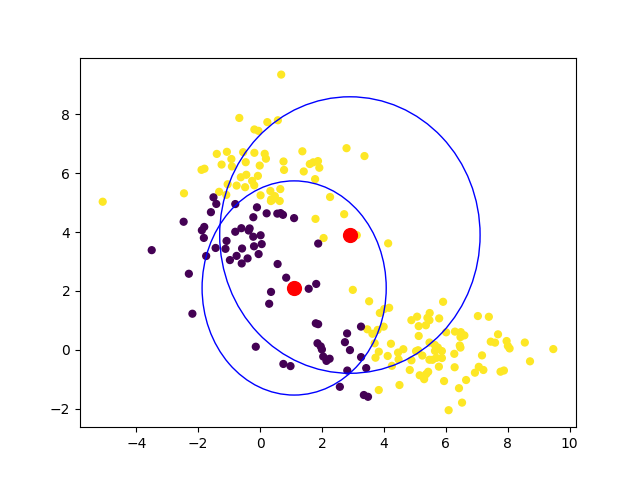
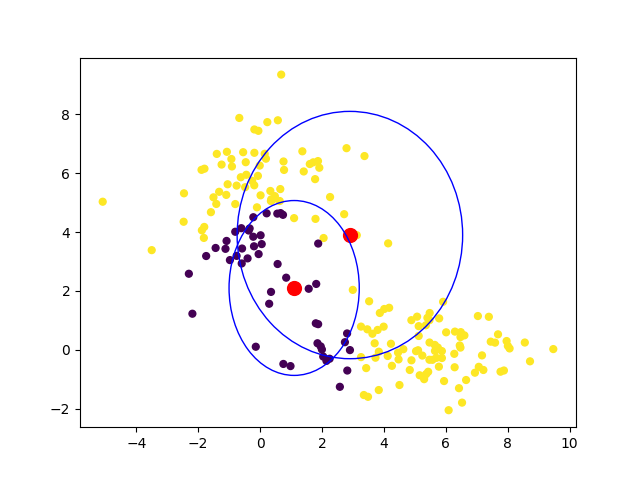
Improve handling of scales parameter

diff --git a/em-gaussian-pyro.py b/em-gaussian-pyro.py
@@ -18,16 +18,13 @@ from torch.distributions import constraints
 def model(data):
     # Global variables.
     weights = pyro.param('weights', torch.FloatTensor([0.5]), constraint=constraints.unit_interval)
-    scales = pyro.param('scales', torch.FloatTensor([2., 3., 4., 5.]), constraint=constraints.positive)
+    scales = pyro.param('scales', torch.tensor([[[1., 0.], [0., 2.]], [[3., 0.], [0., 4.]]]), constraint=constraints.positive)
     locs = pyro.param('locs', torch.tensor([[1., 2.], [3., 4.]]))
 
     with pyro.iarange('data', data.size(0)):
         # Local variables.
-        assignment = pyro.sample('assignment', dist.Bernoulli(torch.ones(len(data)) * weights))
-        assignment = assignment.to(torch.int64)
-        scales_assignment = scales[torch.stack((assignment*2, assignment*2 + 1))].transpose(1, 0)
-        scales_assignment = torch.stack([torch.diag(s) for s in scales_assignment])
-        pyro.sample('obs', dist.MultivariateNormal(locs[assignment], scales_assignment), obs=data)
+        assignment = pyro.sample('assignment', dist.Bernoulli(torch.ones(len(data)) * weights)).to(torch.int64)
+        pyro.sample('obs', dist.MultivariateNormal(locs[assignment], scales[assignment]), obs=data)
 
 
 @config_enumerate(default="parallel")
@@ -97,22 +94,17 @@ def plot(data, mus=None, sigmas=None, colors='black', figname='fig.png'):
     if mus is not None:
         x = [float(m[0]) for m in mus]
         y = [float(m[1]) for m in mus]
-        # import pdb; pdb.set_trace()
         plt.scatter(x, y, 99, c='red')
 
     # Plot ellipses for each cluster
     if sigmas is not None:
         for sig_ix in range(K):
             ax = fig.gca()
-            j = 2
-            cov = np.zeros((2, 2))
-            cov[0, 0] = float(sigmas[sig_ix*K])
-            cov[1, 1] = float(sigmas[sig_ix*K+1])
-
+            cov = np.array(sigmas[sig_ix])
             lam, v = np.linalg.eig(cov)
             lam = np.sqrt(lam)
             ell = Ellipse(xy=(x[sig_ix], y[sig_ix]),
-                          width=lam[0]*j*2, height=lam[1]*j*2,
+                          width=lam[0]*4, height=lam[1]*4,
                           angle=np.rad2deg(np.arccos(v[0, 0])),
                           color='blue')
             ell.set_facecolor('none')
